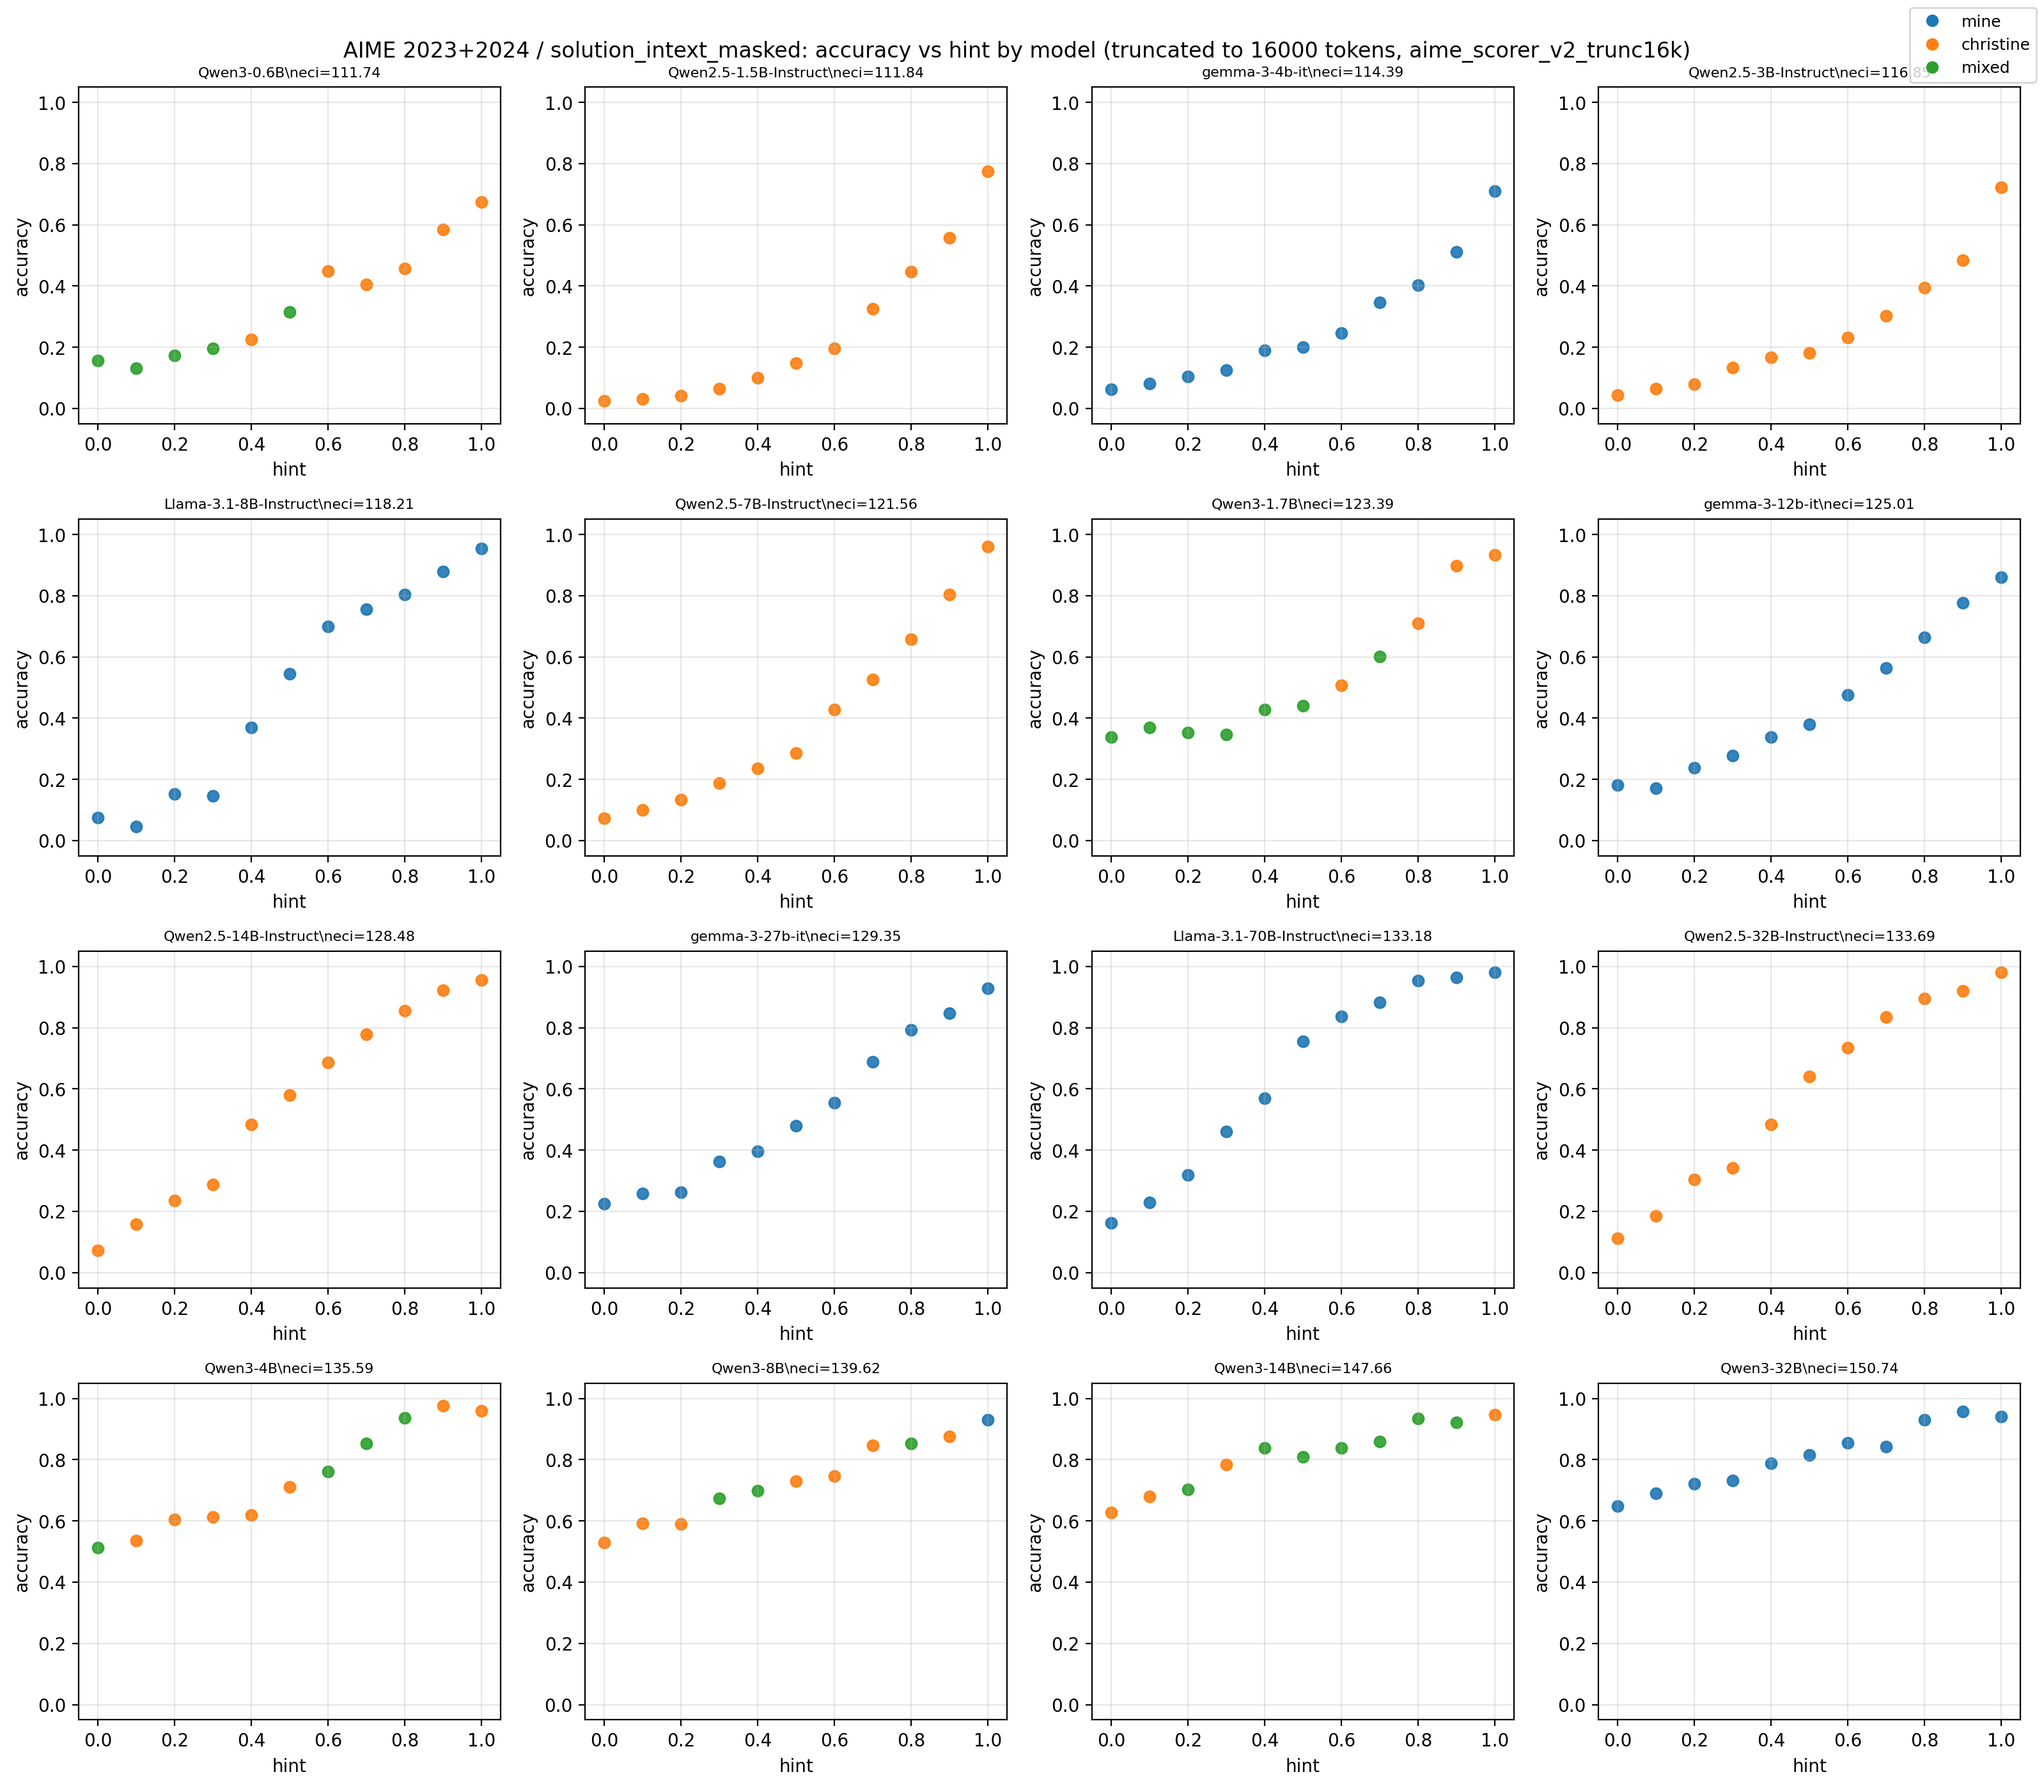
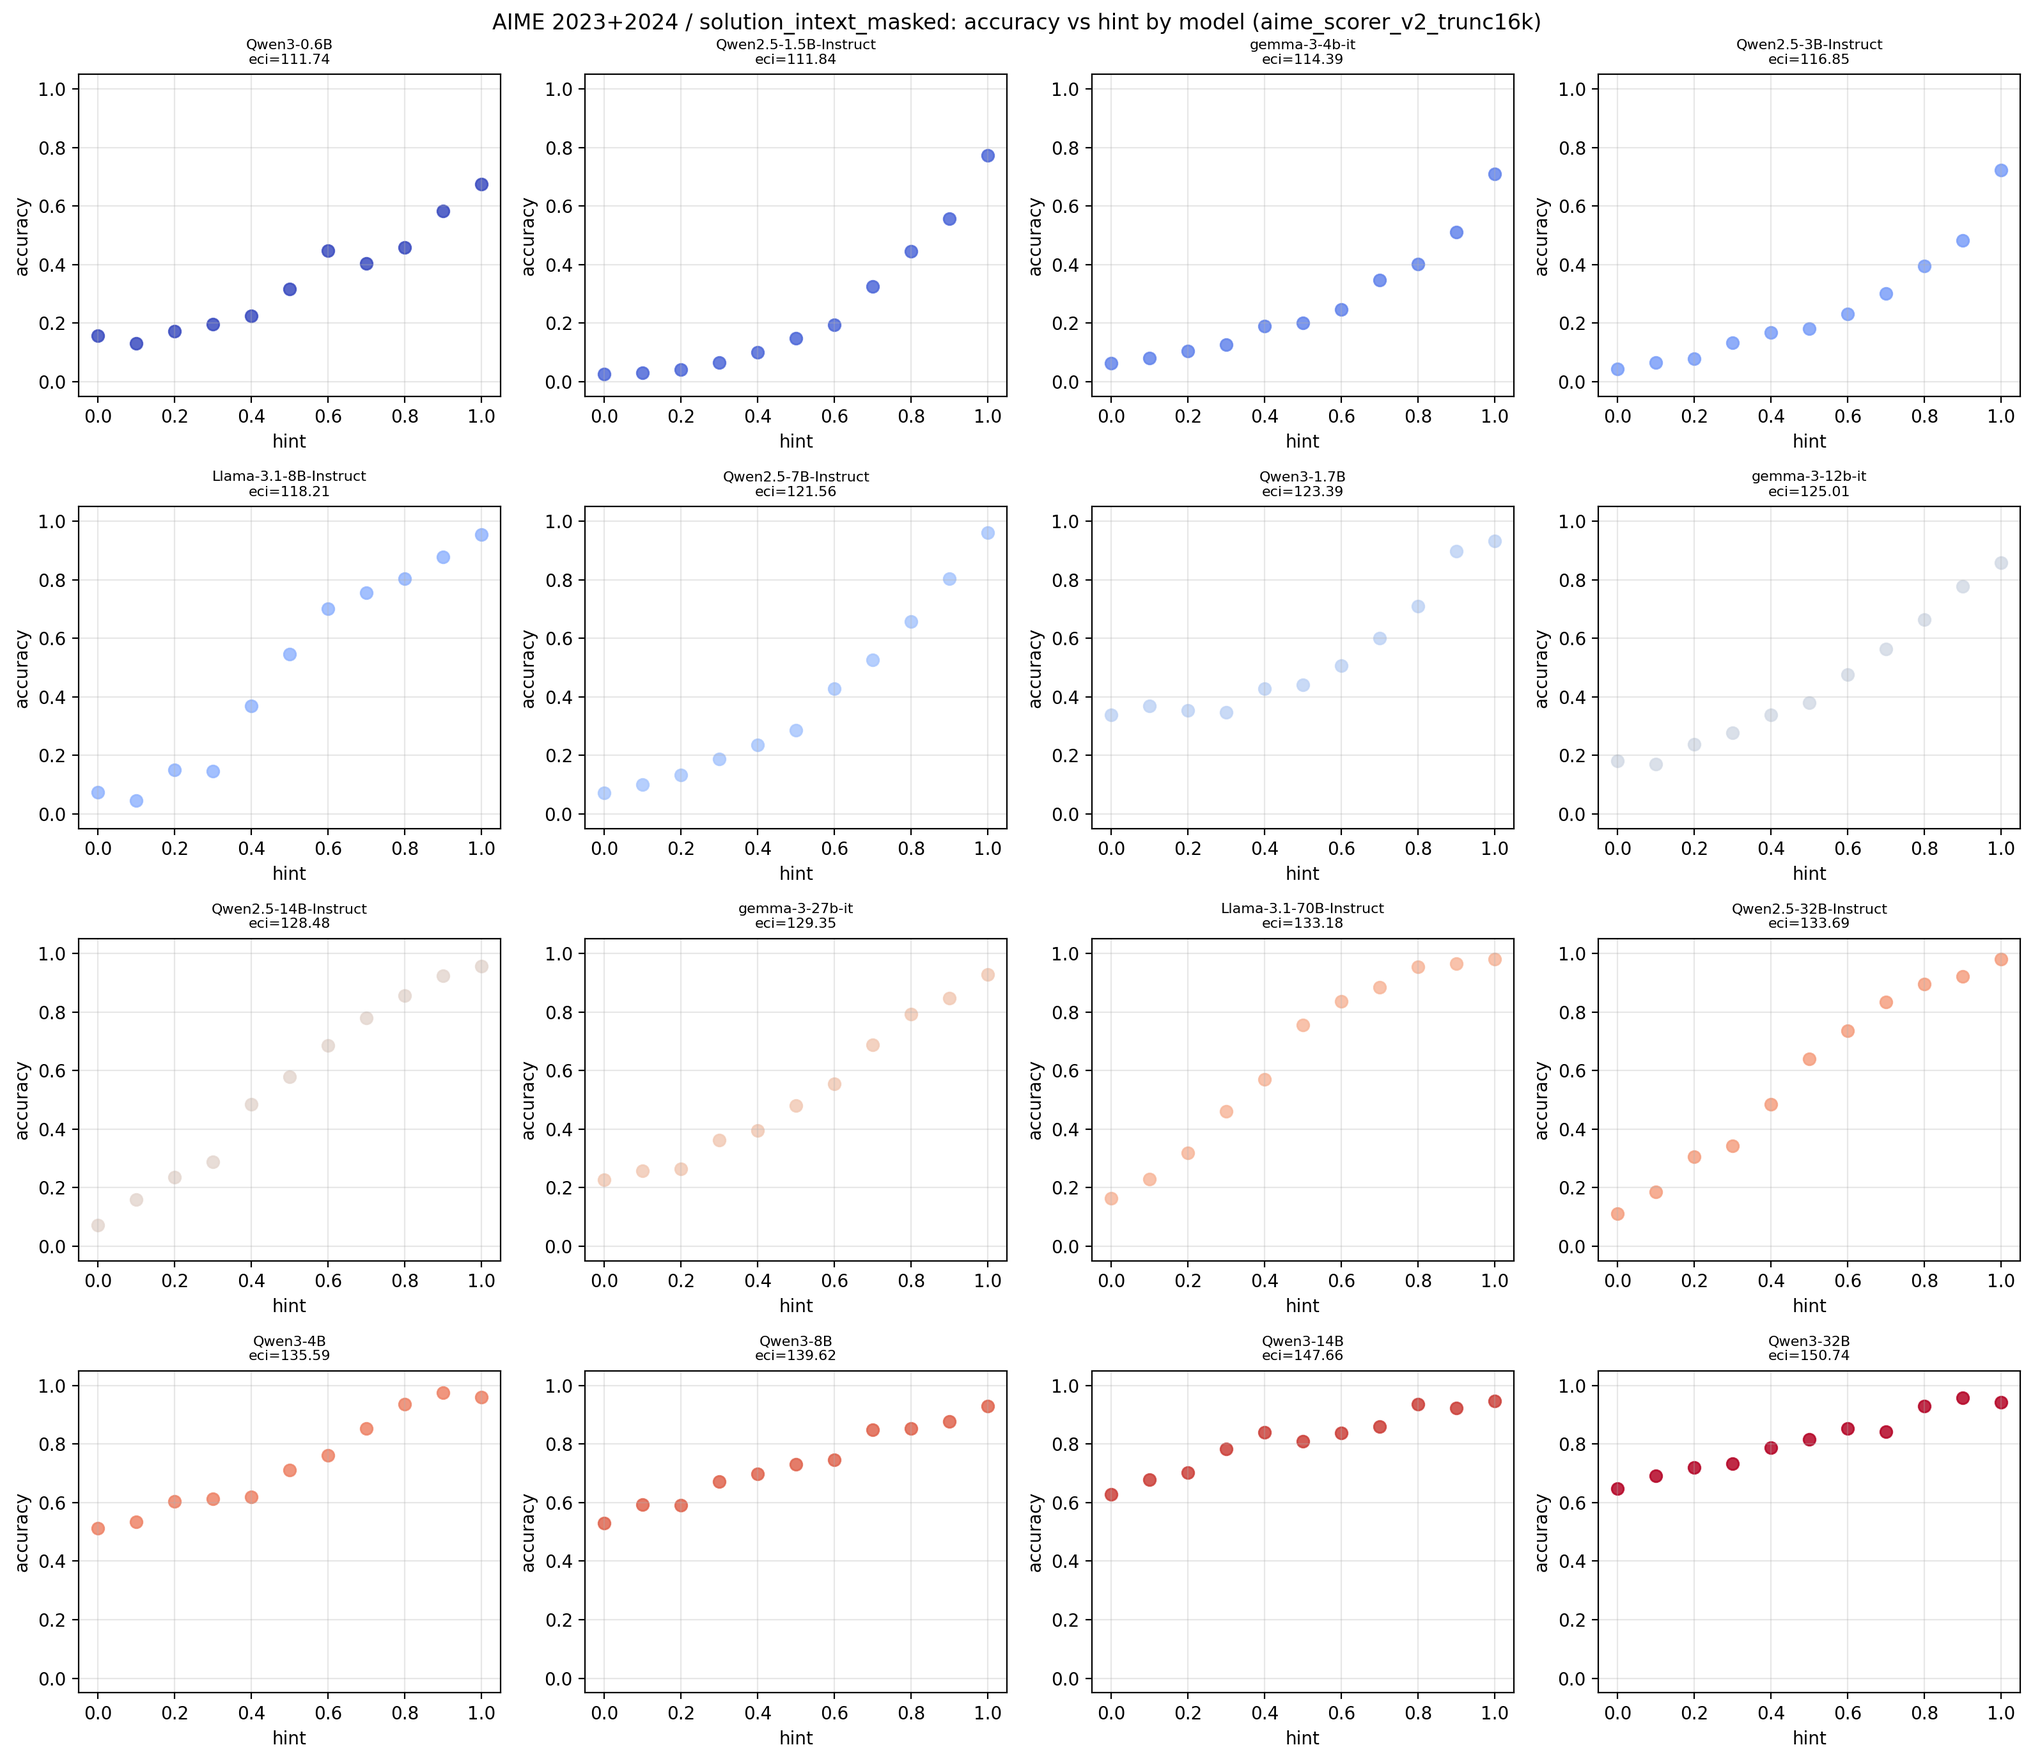
some results from last time

diff --git a/suze_experiments/20260321/truncate16k_regrade_aime_2023_2024_and_plot.py b/suze_experiments/20260321/truncate16k_regrade_aime_2023_2024_and_plot.py
@@ -55,6 +55,8 @@ ROLLOUT_CSV = OUTPUT_DIR / "aime_2023_2024_solution_intext_masked_trunc16k_rollo
 OWNER_CSV = OUTPUT_DIR / "aime_2023_2024_solution_intext_masked_trunc16k_owner_by_model_hint.csv"
 AGG_CSV = OUTPUT_DIR / "aime_2023_2024_solution_intext_masked_trunc16k_accuracy_by_model_hint.csv"
 PLOT_ACCURACY = OUTPUT_DIR / "aime_2023_2024_solution_intext_masked_trunc16k_accuracy_vs_hint_by_model.png"
+PLOT_ACCURACY_OWNER = OUTPUT_DIR / "aime_2023_2024_solution_intext_masked_trunc16k_accuracy_vs_hint_by_model_owner.png"
+PLOT_ACCURACY_VS_ECI = OUTPUT_DIR / "aime_2023_2024_solution_intext_masked_trunc16k_accuracy_vs_eci_by_hint.png"
 PLOT_HIST_OLD = OUTPUT_DIR / "aime_2023_2024_solution_intext_masked_old_token_length_hist_by_model.png"
 
 REUSE_EXISTING_RESULTS_FILES = True
@@ -501,6 +503,18 @@ def load_eci_map(path: Path) -> dict[str, float]:
     return dict(zip(eci_df["model"], eci_df["eci_fitted"]))
 
 
+def model_labels_by_eci(df: pd.DataFrame) -> tuple[list[float], list[str]]:
+    model_eci = df[["model", "eci"]].drop_duplicates()
+    grouped = (
+        model_eci.groupby("eci", as_index=False)["model"]
+        .agg(lambda s: ", ".join(sorted(s.tolist())))
+        .sort_values("eci")
+    )
+    ticks = [float(v) for v in grouped["eci"].tolist()]
+    labels = grouped["model"].tolist()
+    return ticks, labels
+
+
 def aggregate_accuracy(rollout_df: pd.DataFrame, owner_df: pd.DataFrame) -> pd.DataFrame:
     agg = (
         rollout_df.groupby(["model", "hint"], as_index=False)
@@ -521,6 +535,103 @@ def aggregate_accuracy(rollout_df: pd.DataFrame, owner_df: pd.DataFrame) -> pd.D
     agg.to_csv(AGG_CSV, index=False)
     print(f"[{ts_now()}] Wrote aggregate CSV: {AGG_CSV} rows={len(agg)}")
     return agg
+
+
+def plot_accuracy_vs_eci_raw_by_hint(agg_df: pd.DataFrame) -> Path:
+    eci_map = load_eci_map(ECI_FILE)
+    df = agg_df.copy()
+    df["eci"] = df["model"].map(eci_map)
+    df = df.dropna(subset=["eci"]).copy()
+
+    fig, ax = plt.subplots(figsize=(13, 8))
+    hints = sorted(df["hint"].unique())
+    cmap = plt.cm.viridis
+    colors = {h: cmap(i / max(len(hints) - 1, 1)) for i, h in enumerate(hints)}
+
+    for hint in hints:
+        hdf = df[df["hint"] == hint].sort_values("eci")
+        ax.scatter(
+            hdf["eci"],
+            hdf["new_accuracy"],
+            color=colors[hint],
+            label=f"h={hint:.2f}",
+            alpha=0.85,
+            s=65,
+        )
+
+    ax.set_xlabel("ECI")
+    ax.set_ylabel("accuracy")
+    ax.set_title(
+        f"AIME 2023+2024 / {SOLVER_FILE.removesuffix('.jsonl')}: "
+        f"accuracy vs ECI by hint ({NEW_SCORER_NAME})"
+    )
+    ax.grid(True, alpha=0.3)
+    ax.legend(bbox_to_anchor=(1.02, 1), loc="upper left", fontsize=9)
+
+    ticks, labels = model_labels_by_eci(df)
+    ax_top = ax.twiny()
+    ax_top.set_xlim(ax.get_xlim())
+    ax_top.set_xticks(ticks)
+    ax_top.set_xticklabels(labels, rotation=75, ha="left", fontsize=8)
+    ax_top.set_xlabel("model(s) at each ECI")
+
+    plt.tight_layout()
+    fig.savefig(PLOT_ACCURACY_VS_ECI, dpi=200, bbox_inches="tight")
+    plt.close(fig)
+    print(f"[{ts_now()}] Wrote plot: {PLOT_ACCURACY_VS_ECI}")
+    return PLOT_ACCURACY_VS_ECI
+
+
+def plot_accuracy_vs_hint_by_model_raw_points(agg_df: pd.DataFrame) -> Path:
+    eci_map = load_eci_map(ECI_FILE)
+    df = agg_df.copy()
+    df["eci"] = df["model"].map(eci_map)
+    df = df.dropna(subset=["eci"]).copy()
+
+    model_eci = df[["model", "eci"]].drop_duplicates().sort_values("eci")
+    models_sorted = model_eci["model"].tolist()
+    n_models = len(models_sorted)
+    n_cols = 4
+    n_rows = (n_models + n_cols - 1) // n_cols
+
+    fig, axes = plt.subplots(n_rows, n_cols, figsize=(4 * n_cols, 3.5 * n_rows))
+    axes = axes.flatten() if hasattr(axes, "flatten") else [axes]
+
+    model_cmap = plt.cm.coolwarm
+    model_colors = {m: model_cmap(i / max(n_models - 1, 1)) for i, m in enumerate(models_sorted)}
+
+    for i, model in enumerate(models_sorted):
+        ax = axes[i]
+        mdf = df[df["model"] == model].sort_values("hint")
+        eci = float(mdf["eci"].iloc[0])
+
+        ax.scatter(
+            mdf["hint"],
+            mdf["new_accuracy"],
+            color=model_colors[model],
+            alpha=0.85,
+            s=45,
+        )
+        ax.set_title(f"{model}\neci={eci:.2f}", fontsize=8)
+        ax.set_xlabel("hint")
+        ax.set_ylabel("accuracy")
+        ax.grid(True, alpha=0.3)
+        ax.set_ylim(-0.05, 1.05)
+        ax.set_xlim(-0.05, 1.05)
+
+    for i in range(n_models, len(axes)):
+        axes[i].set_visible(False)
+
+    fig.suptitle(
+        f"AIME 2023+2024 / {SOLVER_FILE.removesuffix('.jsonl')}: "
+        f"accuracy vs hint by model ({NEW_SCORER_NAME})",
+        fontsize=12,
+    )
+    plt.tight_layout()
+    fig.savefig(PLOT_ACCURACY, dpi=200, bbox_inches="tight")
+    plt.close(fig)
+    print(f"[{ts_now()}] Wrote plot: {PLOT_ACCURACY}")
+    return PLOT_ACCURACY
 
 
 def plot_accuracy_vs_hint(agg_df: pd.DataFrame) -> Path:
@@ -568,14 +679,14 @@ def plot_accuracy_vs_hint(agg_df: pd.DataFrame) -> Path:
         fig.legend(handles=handles, loc="upper right", fontsize=9)
     fig.suptitle(
         f"AIME 2023+2024 / {SOLVER_FILE.removesuffix('.jsonl')}: "
-        f"accuracy vs hint by model (truncated to {MAX_TOKENS} tokens, {NEW_SCORER_NAME})",
+        f"accuracy vs hint by model (owner-colored, truncated to {MAX_TOKENS} tokens, {NEW_SCORER_NAME})",
         fontsize=12,
     )
     plt.tight_layout()
-    fig.savefig(PLOT_ACCURACY, dpi=200, bbox_inches="tight")
+    fig.savefig(PLOT_ACCURACY_OWNER, dpi=200, bbox_inches="tight")
     plt.close(fig)
-    print(f"[{ts_now()}] Wrote plot: {PLOT_ACCURACY}")
-    return PLOT_ACCURACY
+    print(f"[{ts_now()}] Wrote plot: {PLOT_ACCURACY_OWNER}")
+    return PLOT_ACCURACY_OWNER
 
 
 def plot_old_length_hist(rollout_df: pd.DataFrame) -> Path:
@@ -668,6 +779,8 @@ async def main() -> None:
     ].copy()
 
     agg_df = aggregate_accuracy(rollout_df, owner_df)
+    plot_accuracy_vs_eci_raw_by_hint(agg_df)
+    plot_accuracy_vs_hint_by_model_raw_points(agg_df)
     plot_accuracy_vs_hint(agg_df)
     plot_old_length_hist(rollout_df)
 
